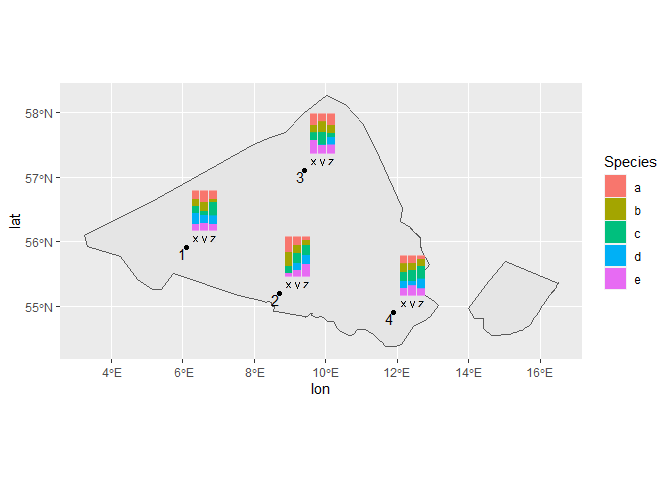
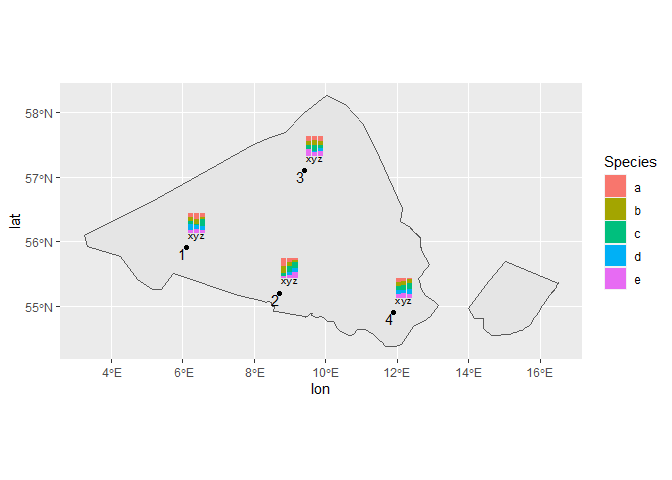
using geom_subview to embed geoms for barcharts in the plot, instead of png images

diff --git a/README.md b/README.md
@@ -69,19 +69,15 @@ bar_chart <- function(selected_id=NA,
   df <- df %>%
     filter(id==selected_id)
   
-  dir.create(imgdir, showWarnings=F)
-  
   p <- ggplot(df, aes(x=!!as.name(quo_name(xvar)), 
                       y=!!as.name(quo_name(yvar)), 
                       fill=!!as.name(quo_name(group)))) +
     geom_bar(stat = "identity", position="stack") +
-    theme_void(base_size=5) +
+    theme_void(base_size=7) +
     scale_fill_discrete(guide=NULL) +
-    theme(axis.text.x = element_text())
+    theme(axis.text.x = element_text(vjust=3))
 
-  imgfile <- paste0(imgdir,"/bar_",selected_id,".png")
-  ggsave(p, filename=imgfile, width=size_x, height=size_y, units="px", dpi=600)  
-  return(imgfile)
+  return(p)
 }
 ```
 
@@ -91,14 +87,24 @@ Make the bar chart for each station and save them locally
 
 ``` r
 id_list <- unique(df_bar_data$id)
-plot_list <-  purrr::map(id_list, bar_chart, df=df_bar_data) %>% 
-  unlist()
+plot_list <-  purrr::map(id_list, bar_chart, df=df_bar_data) 
 ```
 
 Add the list of image files to the station data frame
 
 ``` r
 df_stns$bar_img <- plot_list
+```
+
+Define positions for the images so that they are slightly offset from
+the station positions.
+
+I haven’t done it here but We could also specify separate sizes for each
+bar chart.
+
+``` r
+df_stns <- df_stns %>%
+  mutate(x_img = lon+0.3, y_img=lat+0.3)
 ```
 
 # Make the plot
@@ -155,8 +161,8 @@ ggplot() +
   geom_point(data=df_stns,aes(x=lon,y=lat)) +
   geom_text(data=df_stns,aes(x=lon,y=lat,label=id),
             hjust=1, vjust=1) +
-  geom_image(data=df_stns,aes(x=lon,y=lat,image=bar_img),
-             nudge_x=0.5, nudge_y=0.5, size=0.1) 
+  geom_subview(data=df_stns,aes(x=x_img,y=y_img,subview=bar_img),
+               width=0.5, height=0.5)
 ```
 
 ![](README_files/figure-gfm/final%20plot-1.png)<!-- -->
